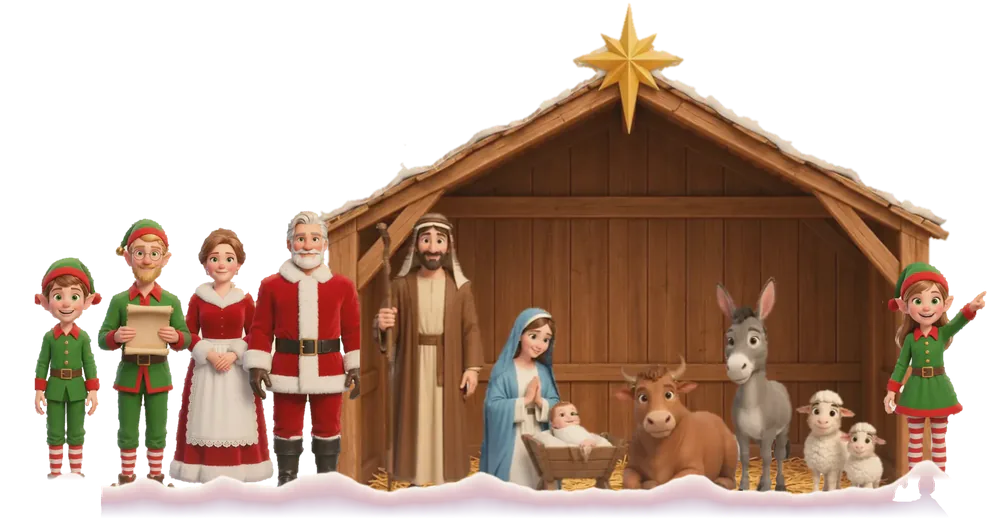
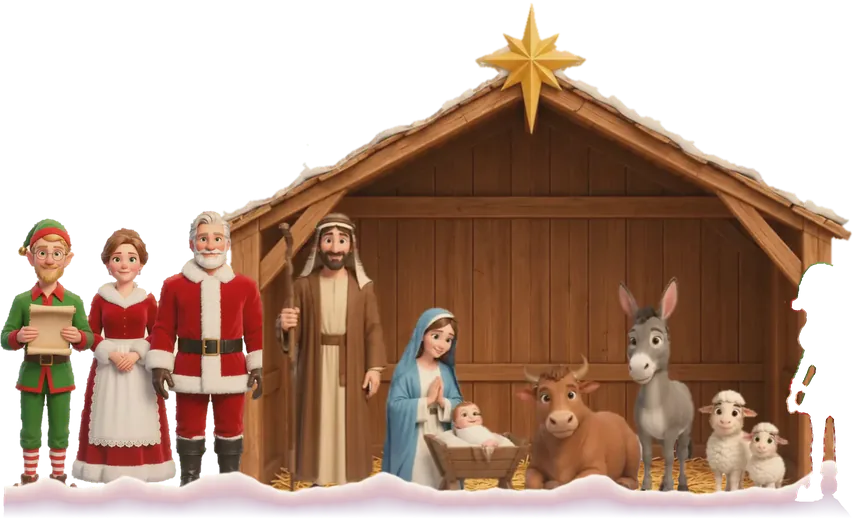
Bring back the boy and girl's hop; fix nav brand accessible name
- Elf boy and girl are their own images again (high priority, no
  entrance animation, so they still appear with the cast); the cast
  image is now the stable plus Santa/Mrs. Claus/elf
- Tap hop is a CSS animation on translate/scale, so it works before
  GSAP loads
- Nav brand link drops its aria-label so its name is its visible text
- Mobile Lighthouse LCP 2.41 s (target 2.5 s)

diff --git a/content/home.html b/content/home.html
@@ -22,7 +22,7 @@
 <canvas id="conf" aria-hidden="true"></canvas>
 
 <nav id="nav" aria-label="Primary">
-  <a class="brand" href="#hero" aria-label="Superhero Santa — home">
+  <a class="brand" href="#hero">
     <svg class="mark" aria-hidden="true"><use href="#mark"/></svg>
     <span class="word">Superhero Santa<small>Picture books · Book One coming soon</small></span>
   </a>
@@ -39,7 +39,7 @@
 <section id="hero" data-bg="#FBE8D2" aria-labelledby="h1">
   <div class="sky" aria-hidden="true">
     <div class="nativity" aria-hidden="true">
-      <img src="assets/img/hero-cast-520.webp" srcset="assets/img/hero-cast-520.webp 987w, assets/img/hero-cast-900.webp 1708w, assets/img/hero-cast.webp 2746w" sizes="(max-width:900px) 85.02vw, (max-width:1280px) calc(89.36vw - 322px), calc(89.36vw - 536px)" alt="" width="2746" height="1447" fetchpriority="high">
+      <img src="assets/img/hero-cast-520.webp" srcset="assets/img/hero-cast-520.webp 853w, assets/img/hero-cast-900.webp 1477w, assets/img/hero-cast.webp 2374w" sizes="(max-width:900px) 73.5vw, (max-width:1280px) calc(77.25vw - 278px), calc(77.25vw - 464px)" alt="" width="2374" height="1447" fetchpriority="high">
       <svg class="drift" viewBox="0 0 340 80"><path fill="#FFFDF9" d="M0 80c22-30 58-44 96-38 26 4 40-14 74-14s50 20 76 16c34-6 66 8 94 36z"/><path fill="#EFF6FB" d="M0 80c30-22 62-30 96-24 26 5 42-10 74-10s52 16 78 12c32-5 60 6 92 22z"/></svg>
     </div>
     <div class="sparkles" id="sparkles"></div>
@@ -47,8 +47,8 @@
     <div class="ch ch-santa" role="button" tabindex="0" aria-label="Say hello to Santa Claus" data-say="Ho ho ho! Have you seen my Reindeer?"><div class="fig"><img src="assets/img/hit.svg" alt="" width="1" height="1"><span class="say" aria-hidden="true"></span></div></div>
     <div class="ch ch-mrs" role="button" tabindex="0" aria-label="Say hello to Mrs. Claus" data-say="Cocoa first. Then we search."><div class="fig"><img src="assets/img/hit.svg" alt="" width="1" height="1"><span class="say" aria-hidden="true"></span></div></div>
     <div class="ch ch-elf" role="button" tabindex="0" aria-label="Say hello to the elf with the map" data-say="The map says… south!"><div class="fig"><img src="assets/img/hit.svg" alt="" width="1" height="1"><span class="say" aria-hidden="true"></span></div></div>
-    <div class="ch ch-boy" role="button" tabindex="0" aria-label="Say hello to the elf boy" data-say="Which way did they go?"><div class="fig"><img src="assets/img/hit.svg" alt="" width="1" height="1"><span class="say" aria-hidden="true"></span></div></div>
-    <div class="ch ch-girl" role="button" tabindex="0" aria-label="Say hello to the elf girl" data-say="Look! Over there!"><div class="fig"><img src="assets/img/hit.svg" alt="" width="1" height="1"><span class="say" aria-hidden="true"></span></div></div>
+    <div class="ch ch-boy" role="button" tabindex="0" aria-label="Say hello to the elf boy" data-say="Which way did they go?"><div class="fig"><img src="assets/img/hero-boy-520.webp" srcset="assets/img/hero-boy-520.webp 103w, assets/img/hero-boy-900.webp 178w, assets/img/hero-boy.webp 286w" sizes="(max-width:900px) 8.85vw, (max-width:1280px) calc(9.31vw - 34px), calc(9.31vw - 56px)" alt="" width="286" height="1447" fetchpriority="high"><span class="say" aria-hidden="true"></span></div></div>
+    <div class="ch ch-girl" role="button" tabindex="0" aria-label="Say hello to the elf girl" data-say="Look! Over there!"><div class="fig"><img src="assets/img/hero-girl-520.webp" srcset="assets/img/hero-girl-520.webp 102w, assets/img/hero-girl-900.webp 176w, assets/img/hero-girl.webp 283w" sizes="(max-width:900px) 8.76vw, (max-width:1280px) calc(9.21vw - 33px), calc(9.21vw - 55px)" alt="" width="283" height="1447" fetchpriority="high"><span class="say" aria-hidden="true"></span></div></div>
 
   <div class="hidey" aria-hidden="true"><svg viewBox="0 0 240 110"><path fill="#BFD8EA" d="M6 110c4-34 20-58 44-70 18-9 30-4 44-14 16-11 34-16 52-8 16 7 22 22 38 28 20 8 40 22 50 64z"/><path fill="#DCEAF4" d="M30 110c6-26 20-44 40-52 14-6 24-2 36-10 12-8 26-12 40-6 12 5 18 16 30 21 14 6 28 16 36 47z"/><path fill="#FFFDF9" d="M6 110c4-16 10-29 18-38 10 4 16 12 26 10 12-3 16-14 28-16 14-2 22 8 34 6 12-2 16-12 28-12 14 0 22 12 34 16 10 3 18-3 28-6 8 10 14 22 18 40z"/></svg></div>
   <div class="ch ch-deer" id="deer" data-say="You found me!"><div class="fig"><img src="assets/img/hero-reindeer-520.webp" srcset="assets/img/hero-reindeer-520.webp 114w, assets/img/hero-reindeer-900.webp 198w, assets/img/hero-reindeer.webp 318w" sizes="(max-width:900px) 9.85vw, (max-width:1280px) calc(10.35vw - 37px), calc(10.35vw - 62px)" alt="The Reindeer, hiding behind a snowdrift" width="318" height="1447"><span class="nose" aria-hidden="true"></span><span class="q" aria-hidden="true">?</span><span class="say" aria-hidden="true"></span></div></div>

diff --git a/public/css/site.css b/public/css/site.css
@@ -99,10 +99,11 @@ nav .btn{padding:13px 20px;font-size:13px}
 @keyframes twinkle{50%{opacity:.15;transform:scale(.6)}}
 #snowc{position:absolute;inset:0;width:100%;height:100%;pointer-events:none;z-index:10}
 
-/* scene layers, back to front: Reindeer (z 5), the cast image (6: stable, Santa, Mrs. Claus, bookkeeper elf, elf boy and
-   elf girl baked into hero-cast.webp by design-src/scripts/hero-cast.py), invisible hit areas (8–9), snowbank (9), snowdrift (10).
-   hero-cast.webp starts at the boy's left edge (x 18 of the 1447-tall canvas). */
-.nativity{position:absolute;bottom:calc(2vh + var(--lift));height:var(--cs);pointer-events:none;left:calc(var(--cx) + 0.0124*var(--cs));width:auto;z-index:6}
+/* scene layers, back to front: Reindeer (z 5), the cast image (6: stable + Santa, Mrs. Claus and the bookkeeper elf, baked into
+   hero-cast.webp by design-src/scripts/hero-cast.py), elf boy and elf girl (8, their own images so they can hop),
+   invisible hit areas for Santa/Mrs. Claus/elf (9), snowbank (9), snowdrift (10).
+   hero-cast.webp starts at the trio's left edge (x 289 of the 1447-tall canvas). */
+.nativity{position:absolute;bottom:calc(2vh + var(--lift));height:var(--cs);pointer-events:none;left:calc(var(--cx) + 0.1997*var(--cs));width:auto;z-index:6}
 .nativity img,.ch img{height:100%;width:auto;max-width:none;filter:saturate(1.14) drop-shadow(0 2px 3px rgba(60,40,60,.22))}
 .nativity img{display:block}
 
@@ -114,10 +115,7 @@ nav .btn{padding:13px 20px;font-size:13px}
 .ch-boy{left:calc(var(--cx) + 0.0124*var(--cs))}
 .ch-girl{left:calc(var(--cx) + 1.7146*var(--cs))}
 .ch-deer{left:calc(var(--cx) + 1.8922*var(--cs));z-index:5}
-/* everyone but the Reindeer is in hero-cast.webp; their 1×1 imgs are transparent hit areas sized to each figure
-   (the boy's and girl's are their old layer boxes, 286 and 283 of 1447 wide) */
-.ch-boy img{width:calc(var(--cs)*0.1977);opacity:0}
-.ch-girl img{width:calc(var(--cs)*0.1956);opacity:0}
+/* Santa, Mrs. Claus and the elf are in hero-cast.webp; their 1×1 imgs are transparent hit areas sized to each figure */
 .ch-santa,.ch-mrs,.ch-elf{z-index:9}
 .ch-elf{left:calc(var(--cx) + 0.2059*var(--cs))}
 .ch-mrs{left:calc(var(--cx) + 0.3649*var(--cs))}
@@ -127,6 +125,11 @@ nav .btn{padding:13px 20px;font-size:13px}
 .ch-santa img{width:calc(var(--cs)*0.2281);opacity:0}
 
 /* speech bubbles sit just above each head (head tops measured from the artwork, as % of the --cs-tall box) */
+/* tap (or hover) hop: squash, jump, bounce. It animates `translate`/`scale` (not `transform`, which .fig pins above), so it
+   works before GSAP has loaded. site.js adds .hop; reduced motion turns animations off. Only the boy, girl and Reindeer
+   have visible art in their .fig; the others are invisible hit areas. */
+@keyframes hop{0%{translate:0 0;scale:1 1}14%{translate:0 0;scale:1.08 .9}47%{translate:0 -34px;scale:.96 1.06}72%{translate:0 0;scale:1.06 .94}86%{translate:0 -6px;scale:1 1}100%{translate:0 0;scale:1 1}}
+.ch .fig.hop{animation:hop .85s cubic-bezier(.3,.7,.4,1)}
 .ch-santa{--head:59.4%}.ch-elf{--head:57.9%}.ch-mrs{--head:56.1%}.ch-boy{--head:50.4%}.ch-girl{--head:49.3%}.ch-deer{--head:55.6%}
 .ch .say{position:absolute;left:50%;bottom:calc(var(--head,100%) + 12px);transform:translate(calc(-50% + var(--nx,0px)),10px) scale(.9);background:#fff;color:var(--ink);
   font:650 clamp(13px,1.15vw,17px)/1.2 var(--display);font-variation-settings:"opsz" 30,"SOFT" 30;padding:10px 16px;border-radius:16px;width:max-content;max-width:min(62vw,320px);text-align:center;

diff --git a/public/js/site.js b/public/js/site.js
@@ -54,12 +54,14 @@
     $$('.ch.talk').forEach(function(o){if(o!==ch)o.classList.remove('talk');});ch.classList.add('talk');
     var r=b.getBoundingClientRect(),pad=12,nx=0;if(r.left<pad)nx=pad-r.left;else if(r.right>window.innerWidth-pad)nx=window.innerWidth-pad-r.right;if(nx)b.style.setProperty('--nx',nx+'px');
     clearTimeout(ch._t);ch._t=setTimeout(function(){ch.classList.remove('talk');},2400);
-    if(window.gsap&&!rm){var f=ch.querySelector('.fig');gsap.fromTo(f,{y:0,scaleX:1,scaleY:1},{keyframes:[{scaleX:1.08,scaleY:.9,duration:.12},{y:-34,scaleX:.96,scaleY:1.06,duration:.28,ease:'power2.out'},{y:0,scaleX:1.06,scaleY:.94,duration:.3,ease:'bounce.out'},{scaleX:1,scaleY:1,duration:.15}]});}}
+    // hop: a CSS animation (site.css @keyframes hop), restarted on every tap
+    if(!rm){var f=ch.querySelector('.fig');f.classList.remove('hop');void f.offsetWidth;f.classList.add('hop');}}
   // the bubbles are aria-hidden; a tap or keypress reads the line out once through #saylive
   var saylive=document.getElementById('saylive');
   function announce(ch){if(!saylive)return;var who=(ch.getAttribute('aria-label')||'').replace(/^Say hello to /,'');
     who=who.charAt(0).toUpperCase()+who.slice(1);saylive.textContent='';setTimeout(function(){saylive.textContent=who+': '+ch.getAttribute('data-say');},60);}
   function talk(ch){if(ch===deerEl&&!found.deer)return;audioOn();boing();say(ch);announce(ch);}
+  $$('.ch .fig').forEach(function(f){f.addEventListener('animationend',function(e){if(e.animationName==='hop')f.classList.remove('hop');});});
   $$('.ch').forEach(function(ch){
     ch.addEventListener('click',function(){talk(ch);});
     ch.addEventListener('keydown',function(e){if(ch.getAttribute('role')!=='button')return;if(e.key==='Enter'||e.key===' '){e.preventDefault();talk(ch);}});

diff --git a/design-src/scripts/hero-cast.py b/design-src/scripts/hero-cast.py
@@ -1,14 +1,14 @@
-"""Bake the hero's stable, the Santa/Mrs. Claus/elf layer, the elf boy and the elf girl into one image.
+"""Bake the hero's stable and the Santa/Mrs. Claus/elf layer into one image.
 
 Run from the repo root:  python3 design-src/scripts/hero-cast.py
 Needs Pillow and cwebp on PATH. Inputs are the full-size layers in design-src/layers/live/
-(the cleaned versions that used to be served one by one); the Reindeer stays a separate layer
-because it moves when found.
+(the cleaned versions that used to be served one by one). The elf boy, the elf girl and the Reindeer
+stay separate layers (public/assets/img/hero-*.webp) because they move: the boy and girl hop when
+tapped, the Reindeer pops up when found. (Nov 7 the boy and girl were baked in too, which killed the hop.)
 
 All layers share the 1447 px-tall --cs canvas (x offsets from design-src/layers/meta.json).
-The output is cropped to the boy's left edge (x=18) through the girl's right edge (x=2764), so in
-CSS it sits at left: cx + 18/1447·cs and is cs tall. Stacking order matches the old z-index:
-stable (4) < Santa/Mrs. Claus/elf (6) < boy, girl (8).
+The output is cropped to the Santa/Mrs. Claus/elf layer's left edge (x=289) through the stable's right edge
+(x=2663), so in CSS it sits at left: cx + 289/1447·cs and is cs tall. The stable is composited behind the trio.
 Writes public/assets/img/hero-cast.webp plus 520 and 900 px-tall copies for srcset.
 """
 import json, os, subprocess, tempfile
@@ -18,10 +18,10 @@ SRC = "design-src/layers/live"
 OUT = "public/assets/img"
 meta = json.load(open("design-src/layers/meta.json"))
 H = meta["CH"]
-X0, X1 = meta["boy"]["x0"], meta["girl"]["x0"] + 283  # girl layer is 283 px wide
+X0, X1 = meta["mid"]["x0"], meta["stable"]["x0"] + 1805  # stable layer is 1805 px wide
 
 canvas = Image.new("RGBA", (X1 - X0, H), (0, 0, 0, 0))
-for key, name in [("stable", "stable"), ("mid", "nativity-cast"), ("boy", "hero-boy"), ("girl", "hero-girl")]:
+for key, name in [("stable", "stable"), ("mid", "nativity-cast")]:
     layer = Image.open(f"{SRC}/{name}.webp").convert("RGBA")
     canvas.alpha_composite(layer, (meta[key]["x0"] - X0, 0))
 

diff --git a/design-src/scripts/hero-variants.py b/design-src/scripts/hero-variants.py
@@ -13,8 +13,8 @@ import os, subprocess, tempfile
 from PIL import Image
 
 IMG = "public/assets/img"
-# the stable, Santa/Mrs. Claus/elf, boy and girl are now one image built by hero-cast.py (which makes its own sizes)
-LAYERS = ["hero-reindeer"]
+# the stable and Santa/Mrs. Claus/elf are one image built by hero-cast.py (which makes its own sizes)
+LAYERS = ["hero-boy", "hero-girl", "hero-reindeer"]
 HEIGHTS = [520, 900]
 
 

diff --git a/docs/HANDOFF.md b/docs/HANDOFF.md
@@ -38,7 +38,7 @@ All hero layers are positioned on one virtual canvas:
 - **One ground:** a full-width snowbank (`.bank`, z 9) runs from the bottom up to the feet line (`.078·cs` above the canvas bottom), topped by a wavy `.cap` that is `.024·cs` tall. The cap is sized from `--cs`, not from the bank's height, so its waves never dip below the feet at any width. Every layer stands in this snow, and the snowdrift (`.hidey`) sits on top of it. **The scene doesn't move:** no layer has pointer parallax or a scroll tween, because any relative movement exposes the layers' baked snow above the bank. Nothing in the page uses `data-depth` any more, and `site.js` has no parallax code.
 - Speech bubbles sit at each character's `--head` (head top as % of the `--cs`-tall box, measured from the art). A talking character comes forward (`.ch.talk`, z 12).
 - **Backdrop scales with the cast, not the viewport:** `--bgh = max(min(2.2·cs, --bgcap), 100vw/2.466)`, image anchored `center bottom`. `--bgcap` keeps the domes and spires from rising behind the copy: `100vh`, `92vh` on short (≤760px tall) 901–1280px screens, `112vh` from 1700px. On ≤900px it's `max(2.5·cs + lift, 100vw/2.466)`. Above the image, a lavender gradient (`#d9d2ee → #aaa3d6 → #8b87bf`) fills tall phone screens and fades into the image top. If you swap the backdrop, resample its top-row colour and update those three stops plus `background-color`.
-- Layers in the DOM: `.sky` wraps the cast image and the ground sparkles (`#sparkles`, filled by `site.js`); the rest sit directly in `#hero`. `.nativity img` is **one image of the whole cast** (`hero-cast.webp` + 520/900 px-tall copies): stable, Holy Family, animals, Santa, Mrs. Claus, the bookkeeper elf, the elf boy and the elf girl, baked together by `design-src/scripts/hero-cast.py` from the full-size layers in `design-src/layers/live/`. It starts at the boy's left edge (`left: cx + 0.0124·cs`). The `.ch-santa/.ch-mrs/.ch-elf/.ch-boy/.ch-girl` imgs are 1×1 placeholders that only carry hit areas and speech bubbles. Only `.ch-deer` is still its own image, because it pops up when found. (Nov 7: the boy and girl used to be separate layers and animated in after everyone else.)
+- Layers in the DOM: `.sky` wraps the cast image and the ground sparkles (`#sparkles`, filled by `site.js`); the rest sit directly in `#hero`. `.nativity img` is the stable, Holy Family, animals, Santa, Mrs. Claus and the bookkeeper elf baked into **one image** (`hero-cast.webp` + 520/900 px-tall copies, built by `design-src/scripts/hero-cast.py` from the full-size layers in `design-src/layers/live/`), at `left: cx + 0.1997·cs`. The `.ch-santa/.ch-mrs/.ch-elf` imgs are 1×1 placeholders that only carry hit areas and speech bubbles. The elf boy, the elf girl and the Reindeer are their own images because they move: the boy and girl **hop** when tapped (CSS `@keyframes hop` on `.fig`, animating `translate`/`scale`, so it works before GSAP loads), and the Reindeer pops up when found. All hero images are `fetchpriority=high` and have **no entrance animation**, so the whole cast appears at once. (Nov 7: the boy and girl used to animate in late; they were briefly baked into the cast image too, which removed their hop.)
 
 **Where it lives in `site.css`:** one block between the `══ HERO ══` banner and the ribbon. Order inside it: canvas variables (`--cs/--cx/--lift` on `:root`) and `#hero` (backdrop), `.sky` + sparkles, scene layers (stable, nativity, `.ch` characters with their `left: cx + k·cs` constants), speech bubbles, snowbank, hidden-object hunt (Reindeer, snowdrift + `#peek`, "Tap the snowdrift!", cane, star), counter/sound, hero copy, then the media queries (≥1281px canvas, `--bgcap` overrides, the hidden ghost button, and one `≤900px` block for phones). Desktop is the base; the `≤900px` block overrides it. Each value is set once, so edit it where it is rather than appending an override at the end of the file. (Oct 18: collapsed from the old stack of override passes. Verified pixel-identical at 15 viewport sizes, including found-Reindeer, talking and `#join` states. Computed styles match everywhere except a few no-ops that were dropped: `translate:0 0` on `.ch`, `rotate:0deg` on `.ch .fig`, the Reindeer's `transition:none`, the radius/transition on the background-less `.sticker`s, the `peek2` keyframes renamed to `peek`, and a reduced-motion mirror on the invisible Mrs. Claus placeholder.)
 
@@ -178,6 +178,7 @@ The rest is fonts (139 KB) and the hero art. Getting under 2.5 s would take a de
 - **Form:** a bad email sets `aria-invalid` and is described by the status message.
 - **Contrast / focus:** footer labels .6 → .75 opacity (4.32:1 → AA); focus rings are gold instead of red in the footer and the dark nav, where red was under 3:1. Mrs. Claus's hit area sits above her neighbours so it keeps a 24 px target on phones (stacking only).
 - Checked and fine: focus order (nav → cast → hunt → copy/CTAs → trail → form → footer), visible focus everywhere, every control named, `prefers-reduced-motion` (no preloader, snow, parallax, reveals or pin; the trail becomes a native horizontal scroller).
+- **Nav brand link** (Nov 7): its `aria-label` is gone, so its accessible name is its visible text ("Superhero Santa · Picture books · Book One coming soon"), which fixes axe's `label-content-name-mismatch`. The footer brand link's label already contains its visible text.
 - Known gap: on phones the candy cane's focus ring is clipped at the left edge (the cane sits at `cx − .04cs`); it's still visible on three sides.
 
 ## Mobile LCP pass (Nov 7)
@@ -250,7 +251,7 @@ The 5-run LCPs were within ±5 ms of each other (Lantern simulation is determini
 | TBT | 0 ms | **0 ms** | 0 ms | **0 ms** |
 | Page weight | 549 KB | **498 KB** | 801 KB | **750 KB** |
 
-- **One cast image.** The stable, Santa/Mrs. Claus/elf, the boy and the girl are one image (`hero-cast*.webp`, see "How the hero works"), so there are three fewer hero requests and fewer bytes at every size: 71 KB vs 85 KB at the 520 px size.
+- **One cast image.** The stable and Santa/Mrs. Claus/elf are one image (`hero-cast*.webp`, see "How the hero works"). The boy and girl were baked in too for this measurement (2.40 s). Separating them again so they can hop costs 2.41 s mobile / 0.66 s desktop and +9 KB, still under target.
 - **Slimmer Fraunces.** The roman file is instanced to exactly what the page uses (wght 500–650, opsz 30–144, SOFT 30): 95 KB → 55 KB, rendering identical. `@font-face` declares `font-weight:500 650`. Pinning `opsz` to 144 as well would give 29 KB, but it visibly condenses the small opsz-30 labels (bubbles, counter, ribbon), so it's not done. See `design-src/scripts/subset-fonts.sh`. If the CSS starts using a Fraunces weight outside 500–650, widen the range there and re-run.
 - **GSAP after the hero.** `layout.tsx` loads only `site.js`. Its **core** runs at once with no GSAP: images, sound, cast taps, the hunt, the nav/section colours, the form, plus snow and confetti on `requestAnimationFrame`. The **motion** part (Lenis, reveals, ribbon, trail pin, hero-copy fade, star, cards, stamp) loads `vendor/gsap.min.js` → `ScrollTrigger.min.js` → `lenis.min.js` from beside `site.js` **1 s after `load`**, or on the first wheel/touch/keypress. The hero entrance (headline lines rising, then label/copy/CTAs) is a **CSS animation** (`h1rise`/`heroup` in `site.css`, using `translate` so it doesn't fight the minibook's tilt), so it still plays at once. When motion starts, `.rv` elements already on screen or scrolled past are marked `.in` before `html.fx` is added, so nothing blinks out, and the series cards only fan in if they're still below the fold.
 - Verified at 1440/820/390 on the built site: GSAP absent at 300 ms with the cast and headline animating, then loaded with Lenis/pin/reveals working, no element left hidden, form OK, no console errors.
@@ -258,7 +259,7 @@ The 5-run LCPs were within ±5 ms of each other (Lantern simulation is determini
 **Follow-ups found (not fixed here)**
 - ~~**Reduced motion skips the form's AJAX**~~: fixed Nov 7. The form is part of `site.js`'s core, which runs for every visitor.
 - ~~**404 console error**~~: fixed Nov 7. `site.js` returns at once when the page has no `#hero`, and GSAP no longer loads on every page.
-- **axe nav brand:** the `label-content-name-mismatch` above. The visible text also includes the tagline ("Picture books · Book One coming soon"), which the `aria-label` leaves out. Drop the `aria-label` (the visible text is a fine name) or include the tagline. The footer brand link has the same pattern.
+- ~~**axe nav brand**~~: fixed Nov 7 (the `aria-label` is dropped; see above).
 - `layout.tsx`'s two backdrop `<link rel="preload">` appear twice in the HTML (Next hoists a copy). The browser dedupes same-URL preloads, so it's cosmetic.
 
 ## Private docs (gitignored, `docs/private/`)
